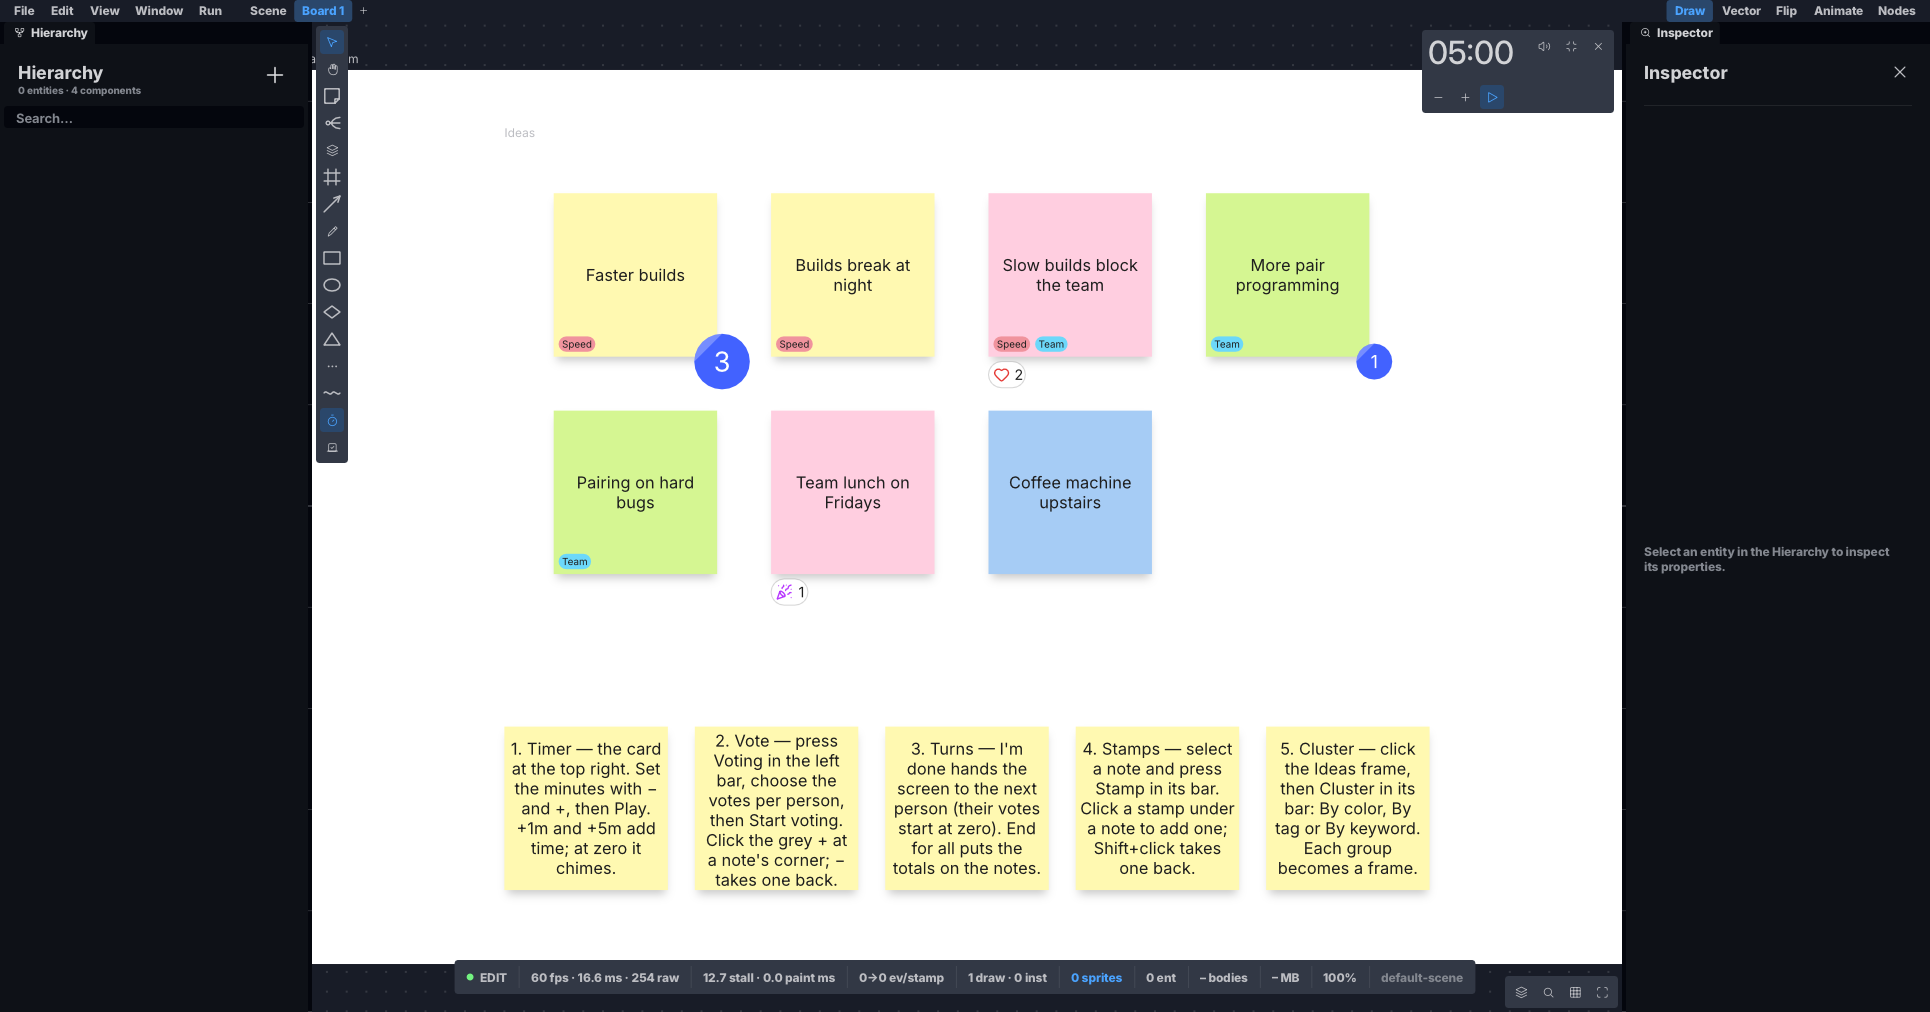
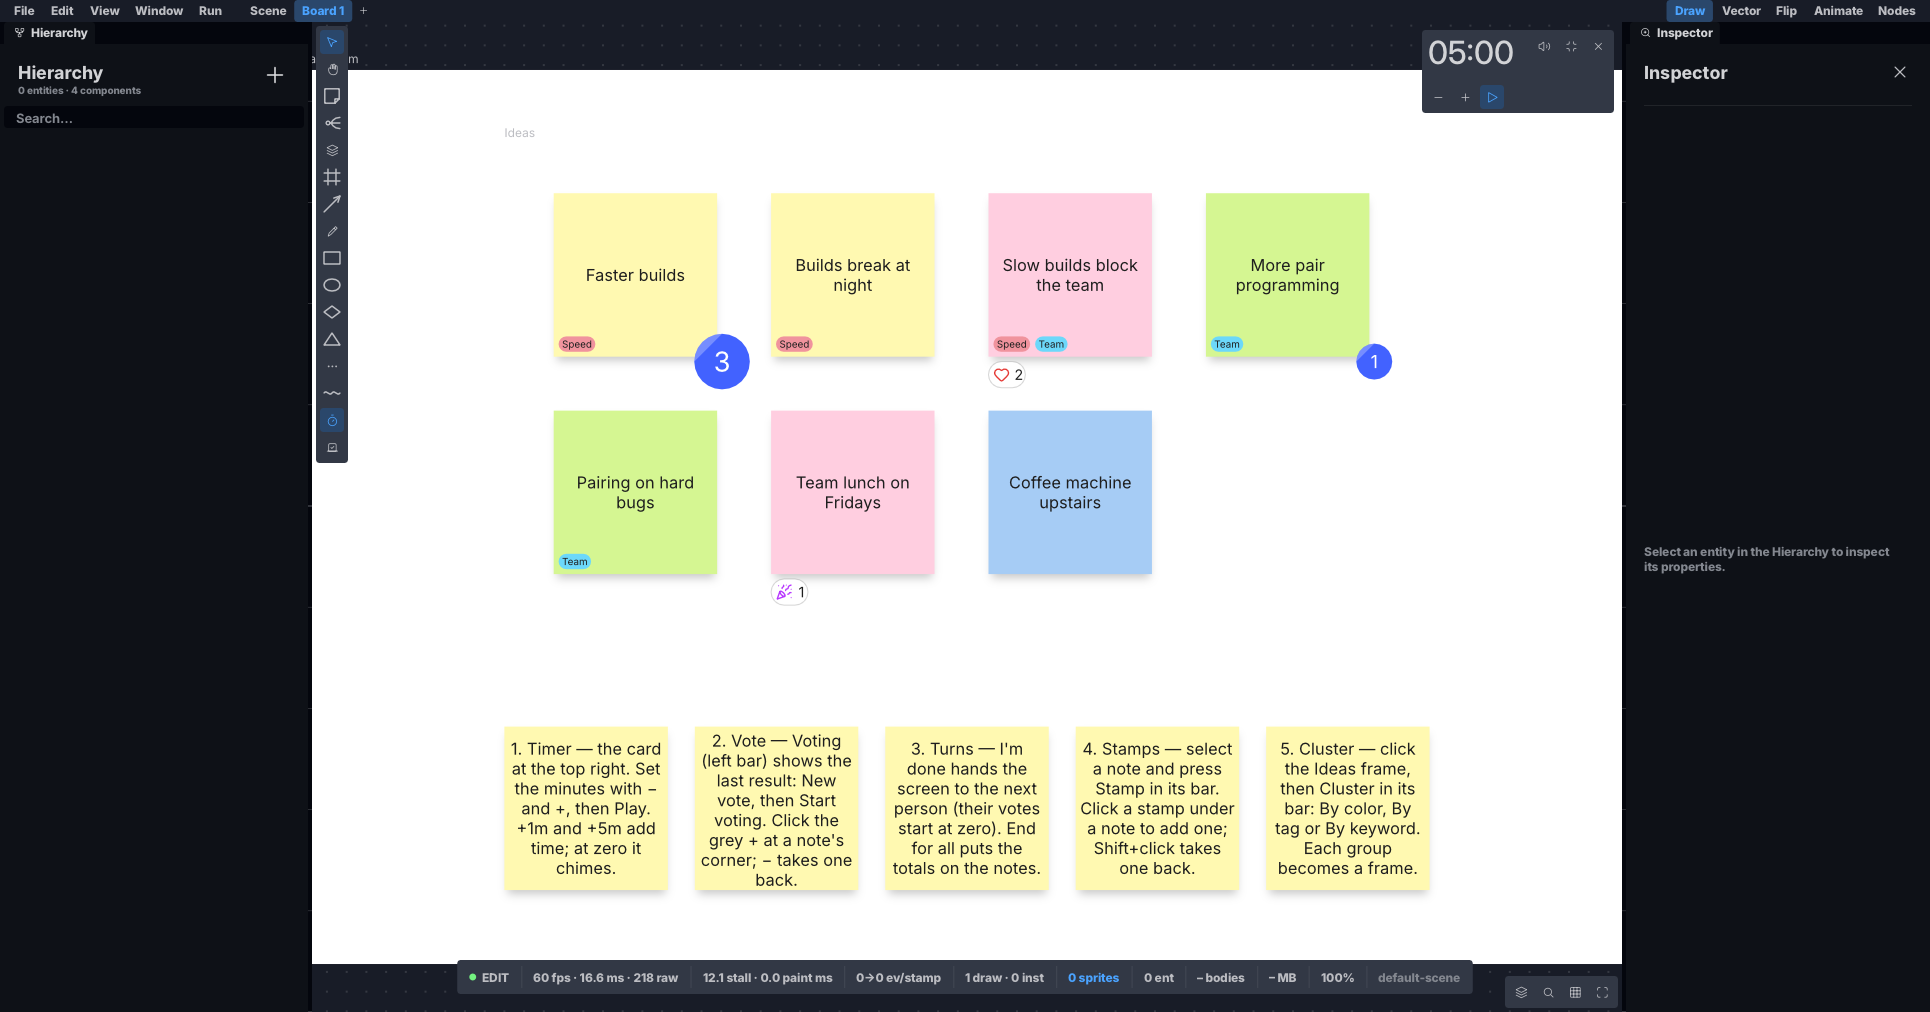
MiroClone W7: a cena 9 refotografada depois das curas — achado da foto: a lição 2 nova (com «New vote») transbordava a nota; o texto encurta e as cinco lições cabem

diff --git a/crates/ph2d-i18n/src/board_facilitate.rs b/crates/ph2d-i18n/src/board_facilitate.rs
@@ -82,7 +82,7 @@ pub(crate) fn tr(key: &str) -> Option<&'static str> {
             "1. Timer — the card at the top right. Set the minutes with − and +, then Play. +1m and +5m add time; at zero it chimes."
         }
         "board.smoke.fac.l2" => {
-            "2. Vote — press Voting in the left bar (it shows the last result), then New vote, the votes per person and Start voting. Click the grey + at a note's corner; − takes one back."
+            "2. Vote — Voting (left bar) shows the last result: New vote, then Start voting. Click the grey + at a note's corner; − takes one back."
         }
         "board.smoke.fac.l3" => {
             "3. Turns — I'm done hands the screen to the next person (their votes start at zero). End for all puts the totals on the notes."
